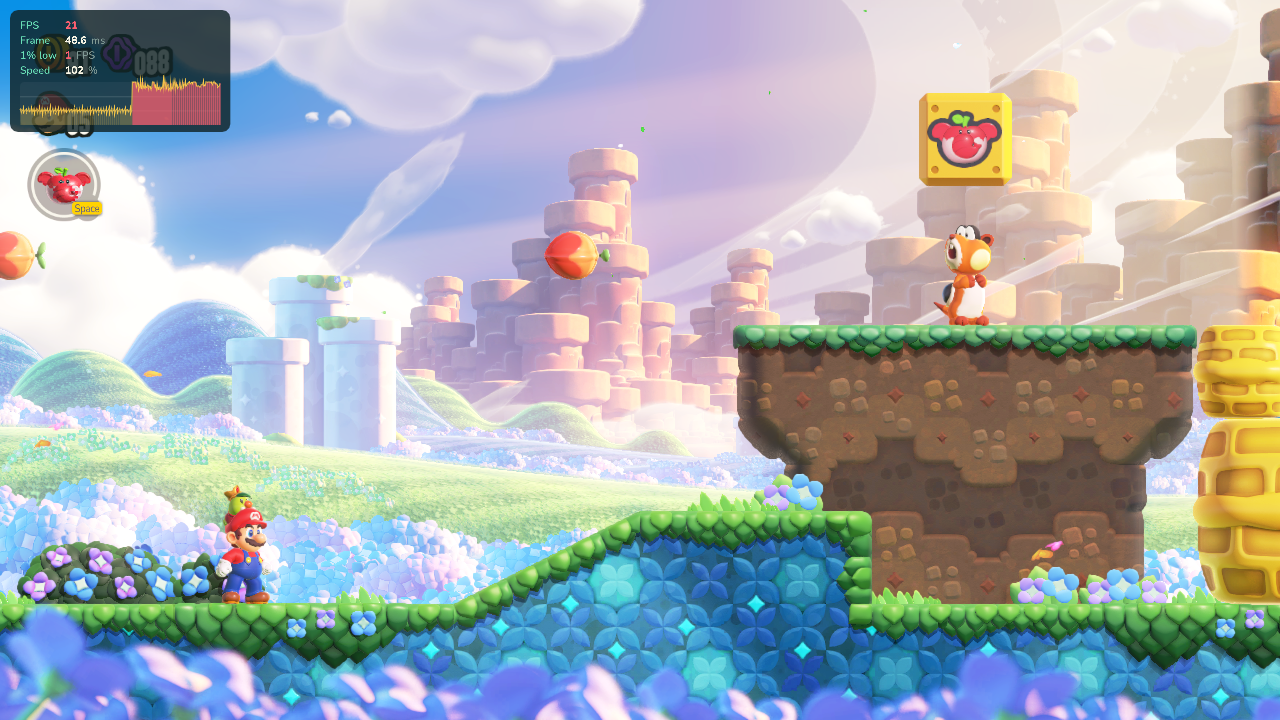
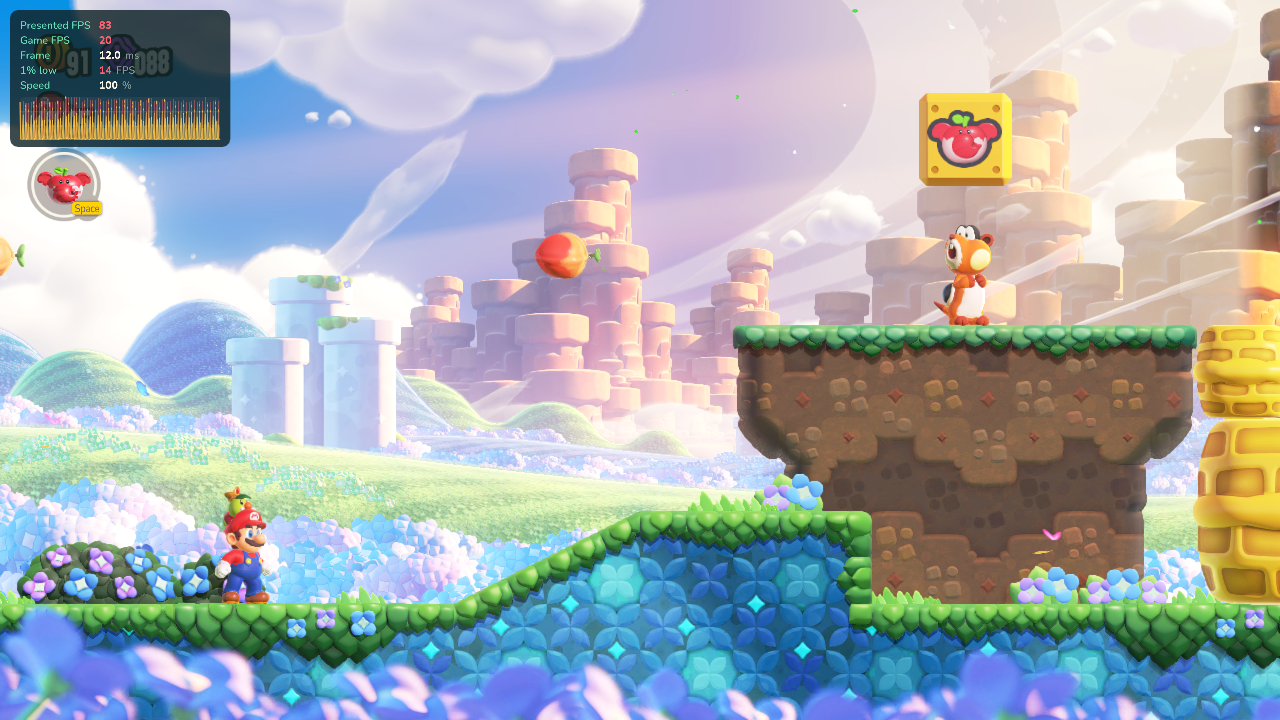
Record RX 570 graphics checks and correct the pause palette diagnosis

diff --git a/docs/AMD-RENDERING-2026-11-18.md b/docs/AMD-RENDERING-2026-11-18.md
@@ -1,0 +1,44 @@
+# AMD graphics corrections — 18 November 2026
+
+The r8-compatible graphics branch is based on `105c586`. Its game logic, LAN code and timing code are unchanged. The separate integration branch applies the same graphics changes to `e48f1a6`; it is not the binary installed for this task.
+
+## Changes
+
+- **Complete draws after a legacy-settings upgrade.** Old `pipeline_skip_draws=1` files migrate to preserving every draw. Such settings otherwise hide objects until a first-use pipeline finishes compiling, which can be particularly visible on AMD. A versioned, explicit new opt-in still survives restart. Startup preparation and ordinary pipeline caching remain enabled.
+- **Fresh depth-comparison copies.** Color textures sampled through shadow samplers use a D32 copy. Its old freshness check tracked render passes only. Uploads, queued texel writes, copies, transfer clears and storage-image bindings now advance a content version too. Retiring the original image releases its copy and views, preventing stale same-size handle reuse and accumulated orphan allocations.
+- **Legacy shader NaN behavior.** Runtime normalization replaces GLSL `FMin/FMax/FClamp` with `NMin/NMax/NClamp`, matching the translator's existing Maxwell correction even with older prepared shader packs. Unrelated extended instruction sets are untouched. The preparation marker changes so affected programs are prepared again. The RX 570 numerical test passed both before and after this correction: this is compatibility hardening, not a demonstrated cause of its pause colors.
+- **Native unsigned HDR on supported AMD Windows devices.** R11G11B10 render targets use their native unsigned format when all required format features are available. Other Windows GPU vendors retain their previous choice. `NX_R11G11B10_EMULATE=1` retains the widened path for diagnosis.
+
+## Correction: the pause tint
+
+The earlier handoff incorrectly classified the blue/green pause background as a known rendering failure. A capture of the input to fragment shader `8d2597627e69be11` has normal scene colors. The shader deliberately converts luminance through these supplied linear RGB palette values:
+
+| Uniform | RGB | Purpose in the shader |
+| --- | --- | --- |
+| c3[1] | 0, 12/255, 71/255 | dark endpoint |
+| c3[3] | 0, 79/255, 39/255 | middle color |
+| c3[2] | 201/255, 195/255, 161/255 | bright endpoint |
+
+The blue, green and cream result follows that explicit palette. Tint alone is not evidence of shader corruption; the game’s filter is preserved. `NX_TRACE_FS_UNIFORMS=<fragment hash>` provides a bounded first-use capture of up to eight rows in four uniform banks for future investigations.
+
+![r8-compatible course capture with 4x presentation](images/amd-graphics-course-20261118.png)
+
+![The game-supplied pause palette](images/amd-graphics-pause-palette-20261118.png)
+
+## Verification and limits
+
+Final r8-compatible source: 29 non-GPU CTest cases and three standalone GPU CTest cases passed on the Radeon RX 570 with the Khronos validation layer. The GPU cases cover ASTC, logical 32-lane subgroup behavior, and NaN/finite/infinite min/max/clamp values. A patched real pause shader also passed SPIR-V validation.
+
+The counter/clear probe now has 12 cases. Three new cases cache a comparison copy, update its source through texel writes, a clear or an upload, read back every converted D32 value, and verify copy removal. All 12 passed in synchronous, pipelined and asynchronous modes: 36 readback cases, zero core/synchronization validation errors, with layer loading confirmed.
+
+The final r8-compatible 16:9 game fixture reached the title, world map, Scram, Skedaddlers!, three pause/resume cycles, movement and jumping with 4x optical-flow presentation. Captures were visually inspected; no black blocks or missing geometry were observed in the inspected images. Logs reported zero skipped draws and zero validation errors. Ten existing unused-fragment-output warnings remain.
+
+The first r8 graphics route completed and was deliberately stopped by the owning harness at course frame 2493: r8 does not contain the newer `NX_TEST_QUIT_FRAME` hook. The old harness's exit-code check therefore failed with exit -1; that failed result is preserved and is not labeled a normal exit. A separate controller-scripted settings-menu quit then passed with exit code 0 and zero validation errors.
+
+Development integration runs also covered the longer route without frame generation and with 4x presentation, both exiting through the newer opt-in QA hook with code 0 and zero validation errors. These are separate from the final r8 route.
+
+This covers one RX 570, one driver and this route. It does not certify every course, driver, frame-generation occlusion or long-session artifact, and makes no FPS-improvement claim. It does not validate new generated ultrawide game data or physical LAN behavior.
+
+First launch may spend several minutes preparing corrected shaders. A development run prepared all 11,304 affected programs with zero failures in 206.3 seconds; subsequent runs reuse the marker and driver cache.
+
+References: [Khronos sampling requirements](https://docs.vulkan.org/spec/latest/chapters/textures.html), [Khronos synchronization](https://docs.vulkan.org/spec/latest/chapters/synchronization.html), and the existing translator correction in `tools/maxwell/spirv_harness/translator/spirv-nan.patch`.
